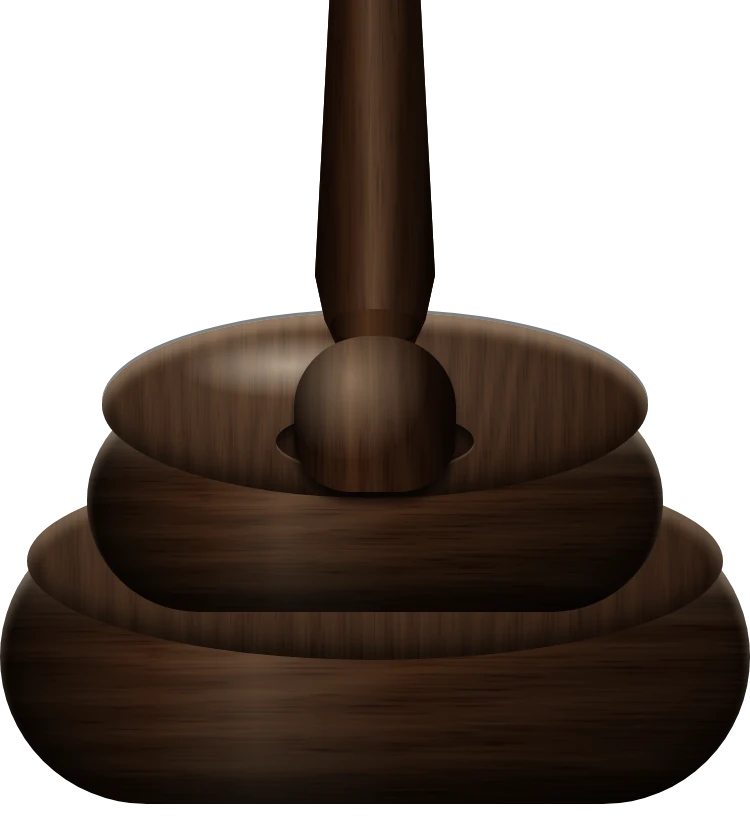
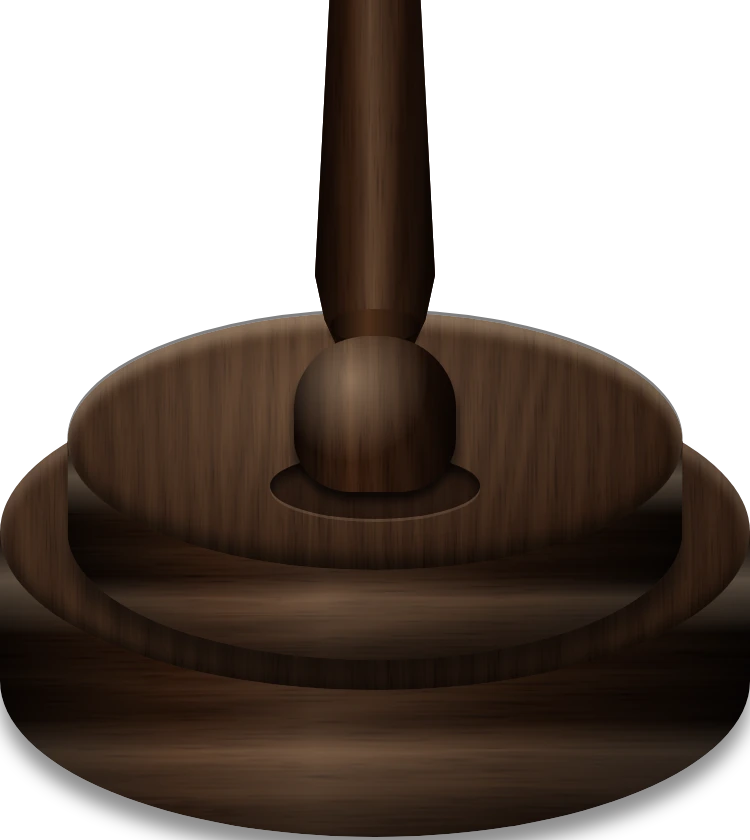
Restore original base shape (as fixed image)

diff --git a/index.html b/index.html
@@ -333,8 +333,8 @@ footer{border-top:1px solid var(--line);color:var(--muted);font-size:.85rem;padd
   Family Recipes · some our own, others we've found.
 </div></footer>
 
-<script src="recipes.js?v=20261121"></script>
-<script src="cards.js?v=20261121"></script>
+<script src="recipes.js?v=20261122"></script>
+<script src="cards.js?v=20261122"></script>
 <script>
 (function(){
 const R = window.RECIPES || [];
@@ -486,7 +486,7 @@ function sectionPage(k){
             <div class="rings"><i></i><i></i></div>
             <div class="stand-cover"><div class="idx-edge"><i></i><i></i><i></i><i></i><i></i><i></i></div></div>
           </div></div>
-          <img class="stand-foot" src="pedestal.webp?v=1" width="250" height="280" alt="">
+          <img class="stand-foot" src="pedestal.webp?v=2" width="250" height="280" alt="">
         </div>
         <div class="stand-text"><h1>${s.name}</h1><p class="tagline">${s.tagline}</p><p>${s.blurb}</p></div>
       </div>` : `<div class="shelf-art" aria-hidden="true">${SPINES}</div>
@@ -593,7 +593,7 @@ function recipe(slug){
     <div class="r-body">
       <section class="panel ing"><h2>Ingredients</h2>${scaleBarHtml(r)}<div id="ingList">${ingHtml}</div></section>
       <section>
-        ${r.cardImg ? `<div class="panel origcard"><h2>The original card</h2><button type="button" class="photo-btn" data-zoom="${esc(r.cardImg)}?v=20261121" data-cap="The original recipe card for ${esc(r.title)}"><img src="${esc(r.cardImg)}?v=20261121" alt="The handwritten recipe card for ${esc(r.title)}" loading="lazy"></button><p class="hint">Tap to zoom in on the handwriting.</p></div>` : ''}
+        ${r.cardImg ? `<div class="panel origcard"><h2>The original card</h2><button type="button" class="photo-btn" data-zoom="${esc(r.cardImg)}?v=20261122" data-cap="The original recipe card for ${esc(r.title)}"><img src="${esc(r.cardImg)}?v=20261122" alt="The handwritten recipe card for ${esc(r.title)}" loading="lazy"></button><p class="hint">Tap to zoom in on the handwriting.</p></div>` : ''}
         <div class="panel">
           <h2>Instructions</h2>
           ${r.steps.length ? `<p class="hint">Tap a step to mark it done.</p><ol class="steps">${r.steps.map((s,i)=>`<li data-k="s${i}" class="${checks['s'+i]?'done':''}">${md(s)}</li>`).join('')}</ol>` : '<p class="muted">No instructions on the card.</p>'}
